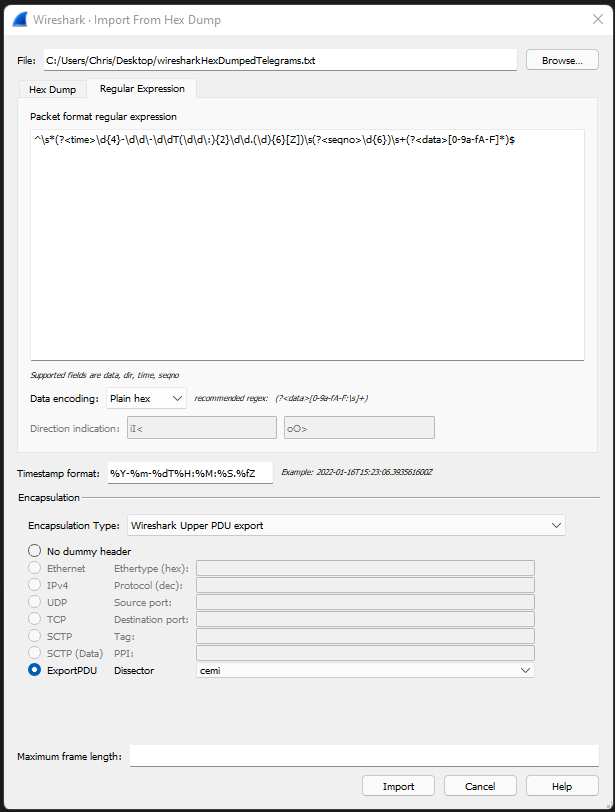
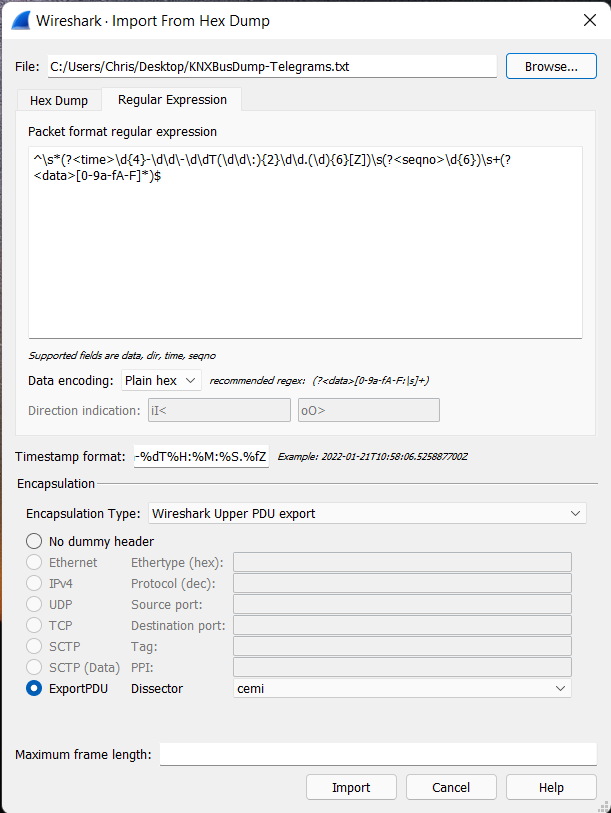
Updated README images and added sample data

Changed region(s): [[0.0, 0.0, 1.0, 1.0], [0.9018, 0.8313, 0.9329, 0.8621]]

diff --git a/README.md b/README.md
@@ -98,7 +98,7 @@ _Note: The next steps will assume that you setup your environment according to t
 
 # Troubleshooting Guide 
 
-## Trouble running the Bus Dump program
+These are some common errors that can occur when running this program with this setup guide. I have provided solutions in hopes that it fixes the error.
 
 ### Running Discover KNX Servers program instead of the Bus Dump
 
@@ -107,3 +107,8 @@ Make sure that you type in all the commands exactly. Running the command with "D
 ### Cannot get the initial state of the TPUART port
 
 Make sure that KNXD (if you have it installed per these guides) is not running. If following this guide, then KNXD will be using that same port and only one process can use the serial port at a time.
+
+
+# Trying sample output
+
+In this repository, I have provided the sample file data in _Sample-KNXBusDump-Telegrams.txt_ that was used to create the screenshots. Feel free to import this into Wireshark to test it yourself.
